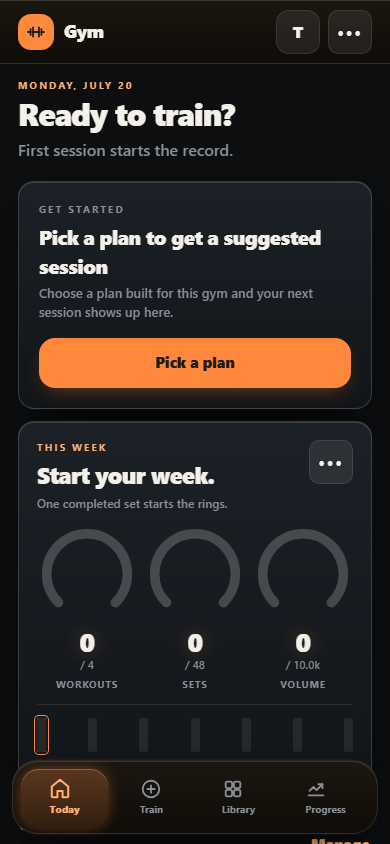
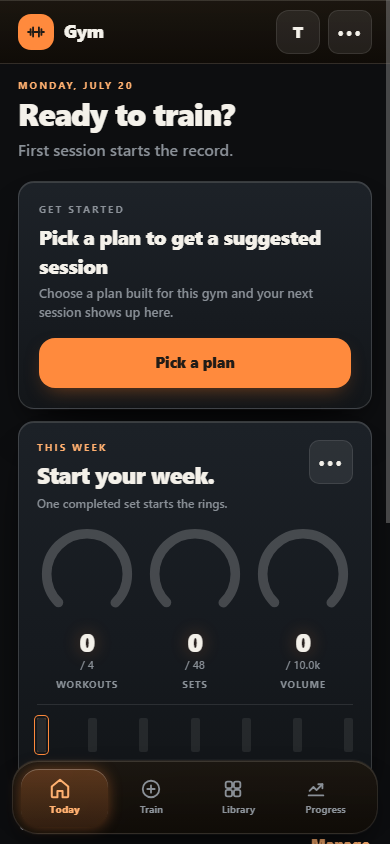
Manifest -> manifest.json (nginx MIME) + build bump w3-20260720b

Changed region(s): [[0.9846, 0.0, 1.0, 0.6161]]

diff --git a/sw.js b/sw.js
@@ -1,9 +1,9 @@
-const CACHE='gym-w3-20260720';
+const CACHE='gym-w3-20260720b';
 self.addEventListener('notificationclick',event=>{event.notification.close();event.waitUntil(self.clients.matchAll({type:'window'}).then(list=>list[0]?list[0].focus():self.clients.openWindow('./')));});
 // Update is user-controlled (release truth): no auto-skipWaiting on install — the waiting worker sits
 // until the app's "Update ready" pill posts SKIP_WAITING, so a refresh is never yanked mid-set.
 self.addEventListener('message',event=>{if(event.data&&event.data.type==='SKIP_WAITING')self.skipWaiting();});
-const ASSETS=['./','./index.html','./styles.css','./build.js','./core.js','./exercises.js','./profiles.js','./sync.js','./coach.js','./app.js','./manifest.webmanifest','./icon.svg','./icon-180.png','./icon-512.png','./icon-maskable-512.png'];
+const ASSETS=['./','./index.html','./styles.css','./build.js','./core.js','./exercises.js','./profiles.js','./sync.js','./coach.js','./app.js','./manifest.json','./icon.svg','./icon-180.png','./icon-512.png','./icon-maskable-512.png'];
 self.addEventListener('install',event=>event.waitUntil(caches.open(CACHE).then(cache=>cache.addAll(ASSETS.map(url=>new Request(url,{cache:'reload'}))))));
 self.addEventListener('activate',event=>event.waitUntil(caches.keys().then(keys=>Promise.all(keys.filter(key=>key!==CACHE).map(key=>caches.delete(key)))).then(()=>self.clients.claim())));
 self.addEventListener('fetch',event=>{if(event.request.method!=='GET')return;

diff --git a/build.js b/build.js
@@ -1,3 +1,3 @@
 // Release-truth build id. Baked into sw.js CACHE ('gym-'+BUILD) and shown in Settings.
 // Bump on every deploy so the update pill and cache invalidation stay honest.
-const BUILD = 'w3-20260720';
+const BUILD = 'w3-20260720b';

diff --git a/index.html b/index.html
@@ -9,7 +9,7 @@
   <meta name="apple-mobile-web-app-status-bar-style" content="default">
   <meta name="description" content="A fast, private workout logger.">
   <title>Gym</title>
-  <link rel="manifest" href="manifest.webmanifest">
+  <link rel="manifest" href="manifest.json">
   <link rel="icon" href="icon.svg" type="image/svg+xml">
   <link rel="apple-touch-icon" href="icon-180.png">
   <link rel="stylesheet" href="styles.css">